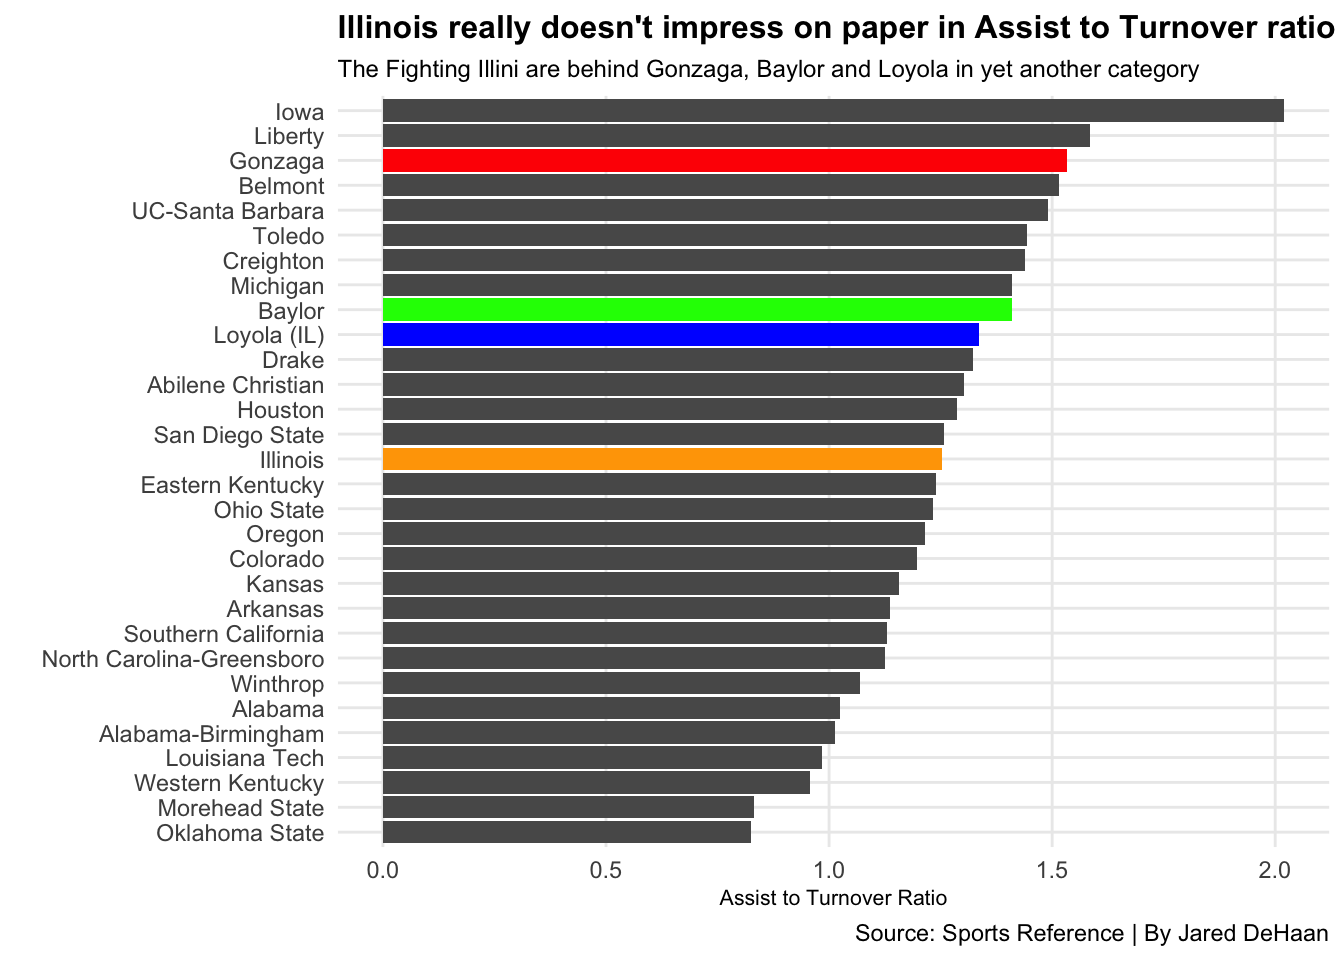
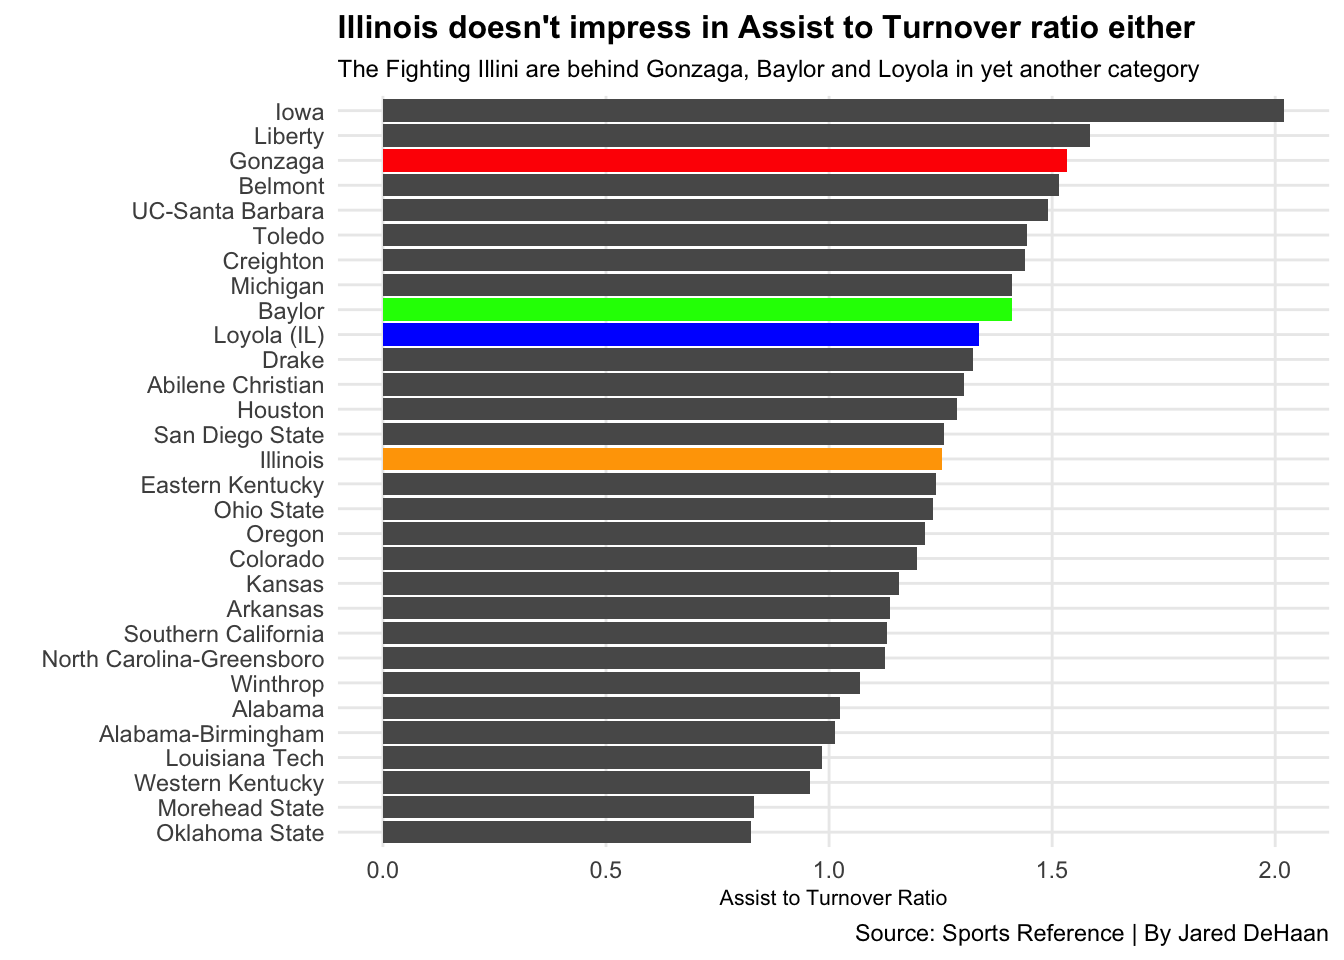
Updates

Changed region(s): [[0.3438, 0.0, 1.0, 0.0625]]

diff --git a/2021/03/27/illinois-missed-their-chance/index.html b/2021/03/27/illinois-missed-their-chance/index.html
@@ -215,7 +215,7 @@ loy &lt;- newstats %&gt;% filter(School == &quot;Loyola (IL)&quot;)</code></pre>
   geom_bar(data=zag, aes(x=reorder(School, `AstTOratio`), weight=`AstTOratio`), fill = &quot;red&quot;)  +
   geom_bar(data=bay, aes(x=reorder(School, `AstTOratio`), weight=`AstTOratio`), fill = &quot;green&quot;)  +
   geom_bar(data=loy, aes(x=reorder(School, `AstTOratio`), weight=`AstTOratio`), fill = &quot;blue&quot;) +
-labs(x=&quot;&quot;, y=&quot;Assist to Turnover Ratio&quot;, title=&quot;Illinois really doesn&#39;t impress on paper in Assist to Turnover ratio either&quot;, subtitle=&quot;The Fighting Illini are behind Gonzaga, Baylor and Loyola in yet another category&quot;, caption=&quot;Source: Sports Reference | By Jared DeHaan&quot;) + 
+labs(x=&quot;&quot;, y=&quot;Assist to Turnover Ratio&quot;, title=&quot;Illinois doesn&#39;t impress in Assist to Turnover ratio either&quot;, subtitle=&quot;The Fighting Illini are behind Gonzaga, Baylor and Loyola in yet another category&quot;, caption=&quot;Source: Sports Reference | By Jared DeHaan&quot;) + 
   theme_minimal() + 
   theme(
     plot.title = element_text(size = 12, face = &quot;bold&quot;),
